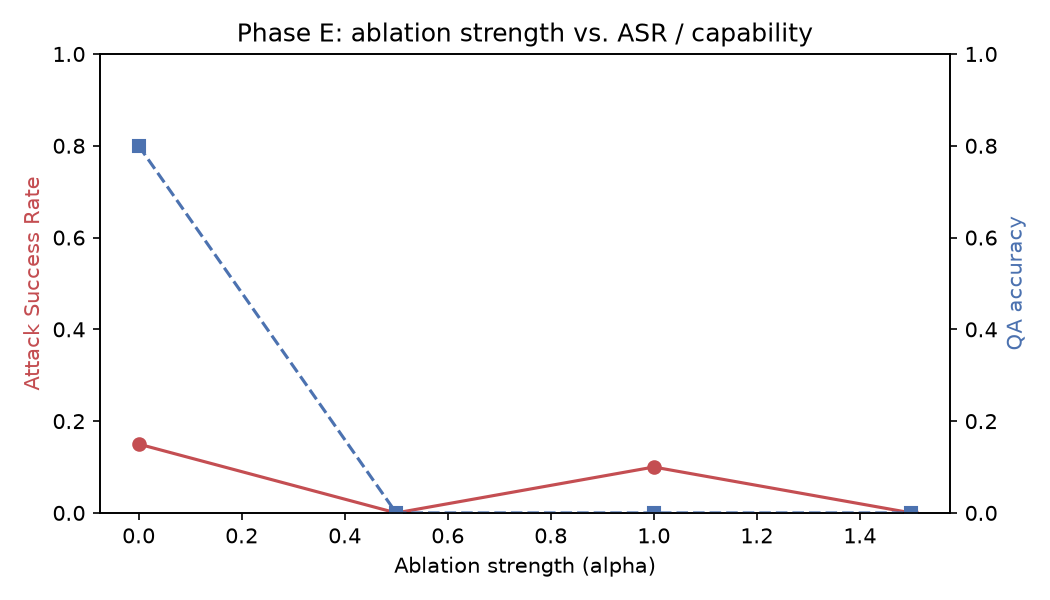
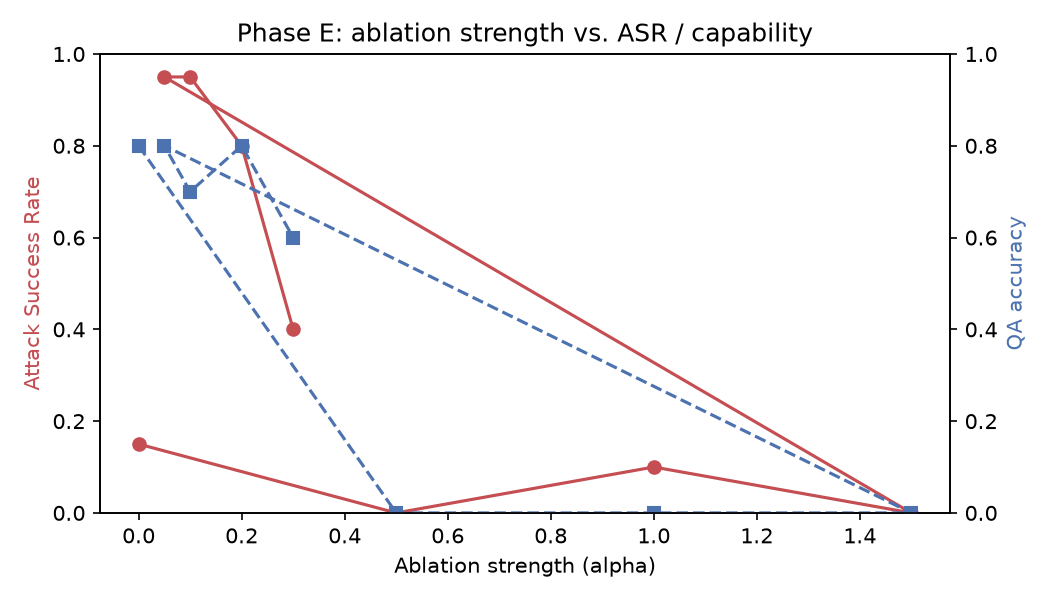
Phase E low-alpha follow-up: alpha=0.05 is the sweet spot (95% ASR, 80% QA accuracy, matching baseline capability) — sharp peak, non-monotonic decline through 0.1/0.2/0.3, full collapse by 0.5+. This is the flagship white-box result.

diff --git a/results/REPORT.md b/results/REPORT.md
@@ -37,6 +37,10 @@ _Generated by `src/eval/report.py`. Aggregate numbers only — see `results/raw/
 | 0.5 | 20 | 0.000 | 0.000 | 1.000 |
 | 1.0 | 20 | 0.100 | 0.000 | 0.900 |
 | 1.5 | 20 | 0.000 | 0.000 | 1.000 |
+| 0.05 | 20 | 0.950 | 0.050 | 0.000 |
+| 0.1 | 20 | 0.950 | 0.000 | 0.050 |
+| 0.2 | 20 | 0.800 | 0.000 | 0.200 |
+| 0.3 | 20 | 0.400 | 0.000 | 0.600 |
 
 ![Ablation strength sweep](charts/ablation_sweep.png)
 
